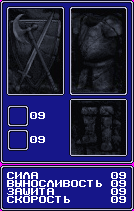
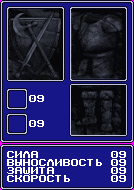
изменение дизайна инвентаря

diff --git a/game/src/main/java/ru/znay/znay/he/Game.java b/game/src/main/java/ru/znay/znay/he/Game.java
@@ -233,7 +233,7 @@ public class Game extends Graphics implements Runnable {
         this.level = new Level(this.player, i, this);
         //this.level.add(new AirWizard(player.getX() - 10, player.getY() - 10));
         //this.level.add(new StoneMan(player.getX() - 10, player.getY() - 10));
-        //GuiManager.getInstance().add(new Inventory(10,10),"inventory");
+        GuiManager.getInstance().add(new Inventory(1,25),"inventory");
         InputHandler.getInstance().releaseAll();
     }
 
